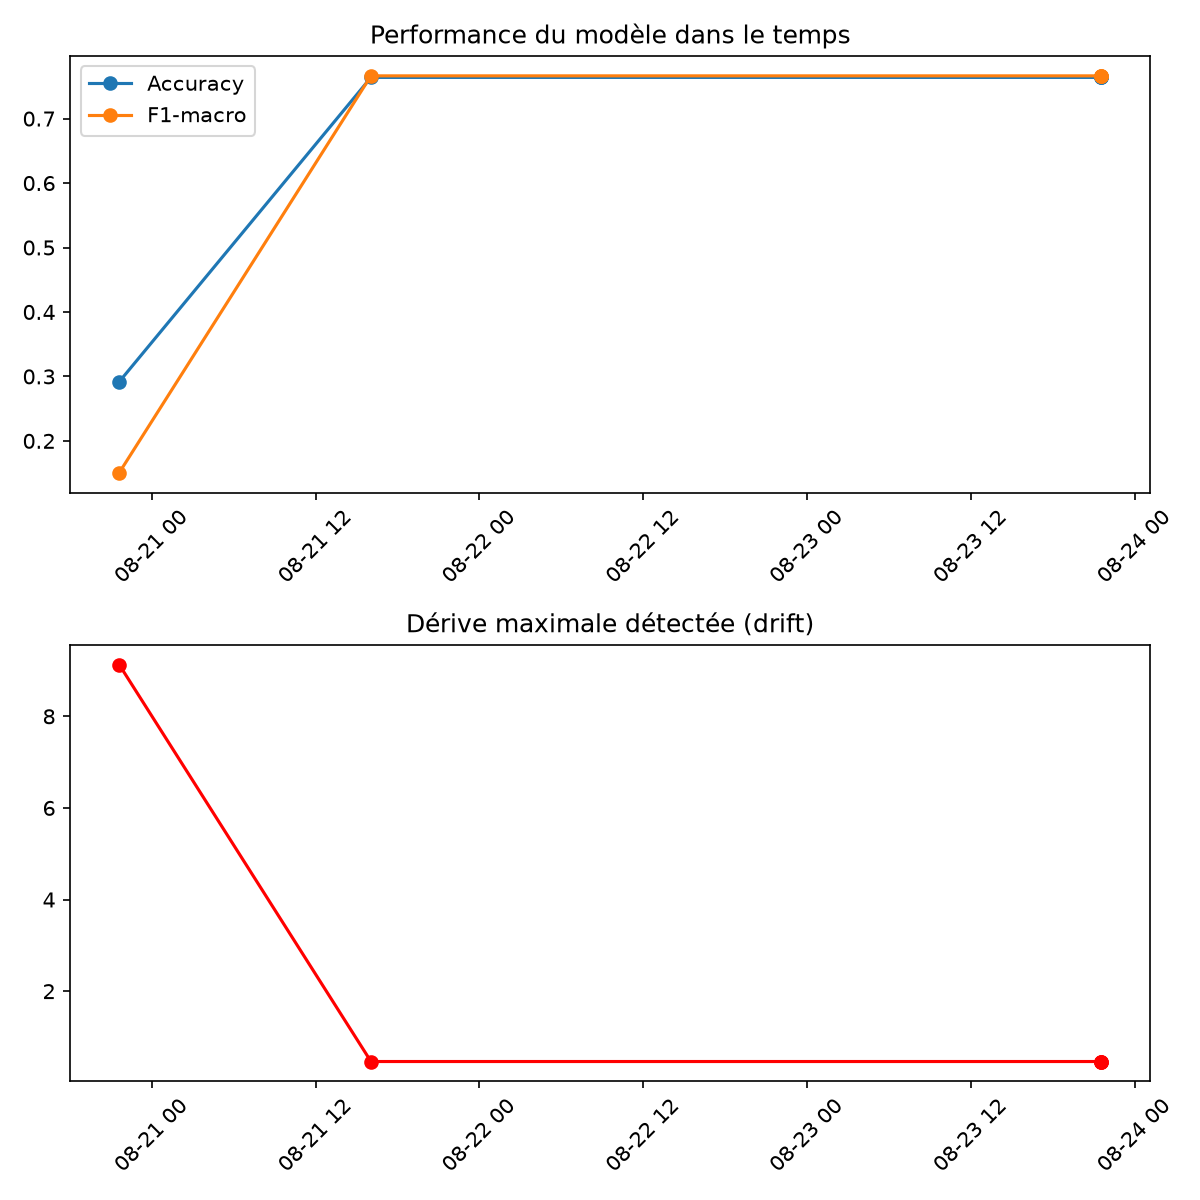
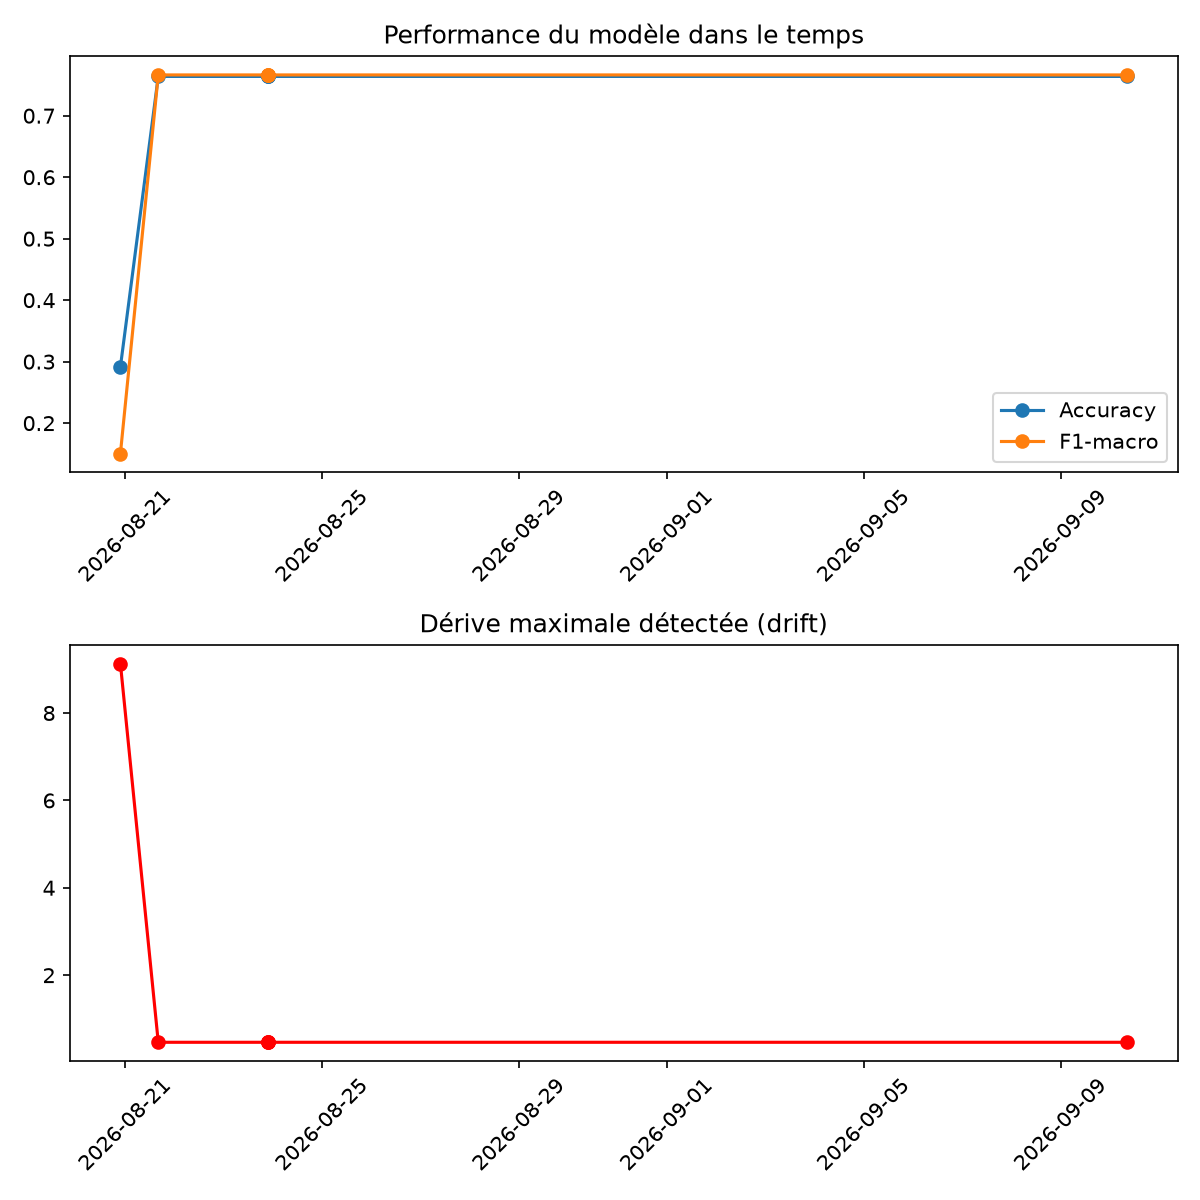
fix: utiliser le port 5001 pour MLflow (conflit port 5000 sur Windows)

diff --git a/monitoring/model_monitor.py b/monitoring/model_monitor.py
@@ -4,7 +4,7 @@ import mlflow.sklearn
 import joblib
 from sklearn.metrics import accuracy_score, f1_score
 
-mlflow.set_tracking_uri("http://localhost:5000")
+mlflow.set_tracking_uri("http://localhost:5001")
 mlflow.set_experiment("university-dropout-prediction")
 
 # Modèle chargé depuis le Registry (pas depuis le .pkl directement)

diff --git a/mlflow/log_to_mlflow.py b/mlflow/log_to_mlflow.py
@@ -4,7 +4,7 @@ import mlflow
 import mlflow.sklearn
 
 # 1. Dire à MLflow où enregistrer
-mlflow.set_tracking_uri("http://localhost:5000")
+mlflow.set_tracking_uri("http://localhost:5001")
 mlflow.set_experiment("university-dropout-prediction")
 
 # 2. Charger le modèle et les fichiers déjà produits par Hasnaa

diff --git a/monitoring/service_monitor.py b/monitoring/service_monitor.py
@@ -1,7 +1,7 @@
 import mlflow
 import matplotlib.pyplot as plt
 
-mlflow.set_tracking_uri("http://localhost:5000")
+mlflow.set_tracking_uri("http://localhost:5001")
 
 # Récupérer tous les runs de monitoring loggés jusqu'ici
 experiment = mlflow.get_experiment_by_name("university-dropout-prediction")

diff --git a/mlflow/README.md b/mlflow/README.md
@@ -36,7 +36,7 @@ avec versionnement automatique (v1, v2, ...) à chaque nouvel enregistrement
    \`\`\`bash
    python mlflow/log_to_mlflow.py
    \`\`\`
-3. Consulter les résultats sur http://localhost:5000
+3. Consulter les résultats sur http://localhost:5001
 
 ## Dépendance importante
 

diff --git a/README.md b/README.md
@@ -755,7 +755,7 @@ Exemple :
 DATA_DIR=data
 DUCKDB_PATH=data/university_dropout.duckdb
 
-MLFLOW_TRACKING_URI=http://localhost:5000
+MLFLOW_TRACKING_URI=http://localhost:5001
 
 API_HOST=0.0.0.0
 API_PORT=8000
